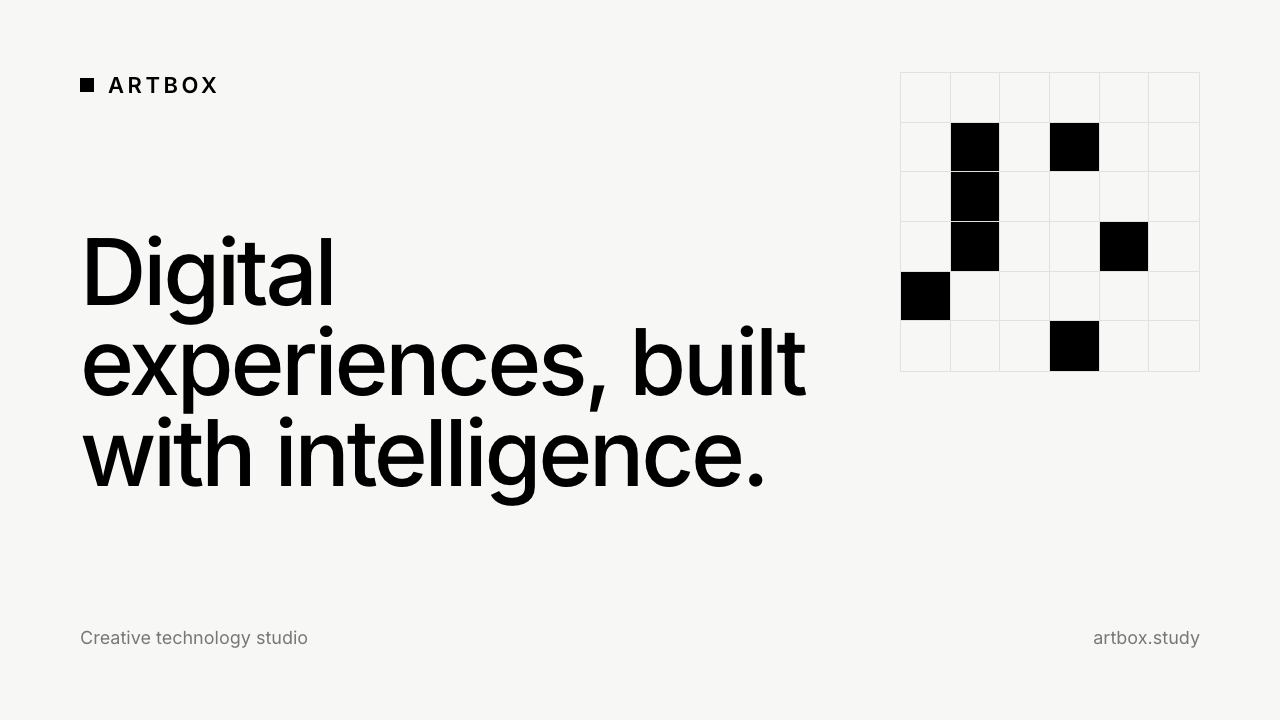
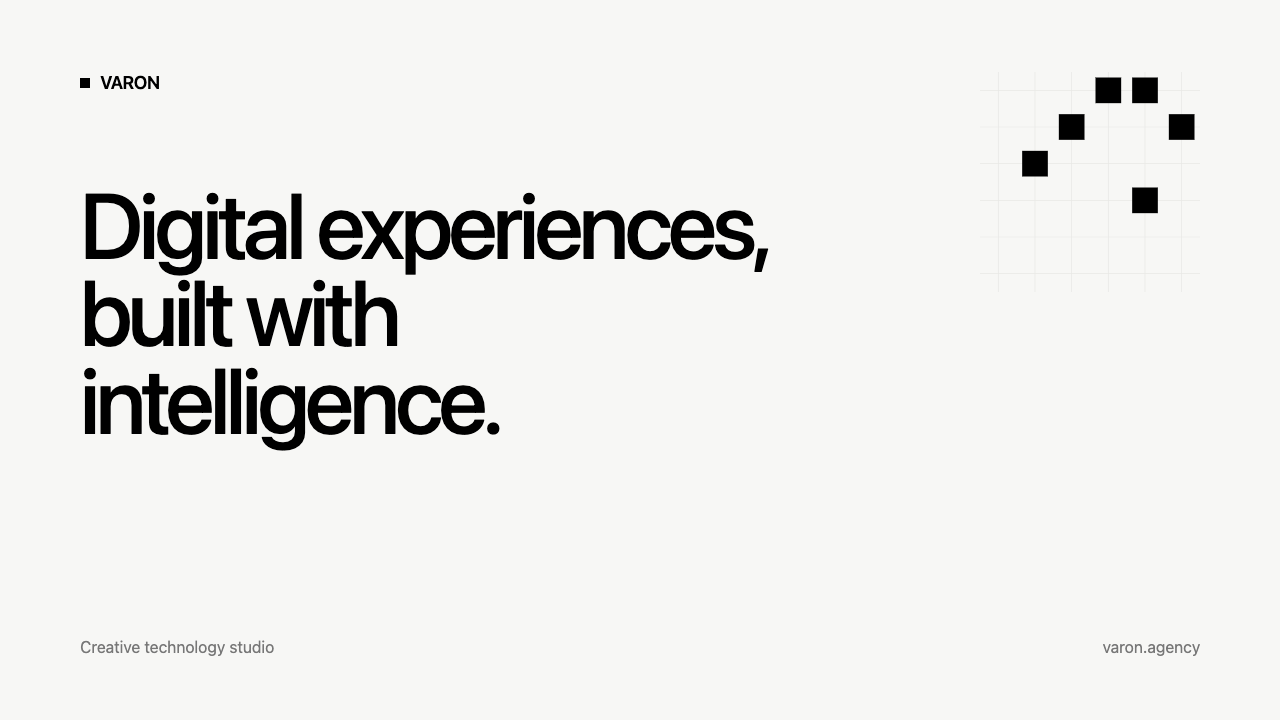
Rename the studio to VARON.agency and add Vercel Analytics
Visible brand strings, SEO metadata, and the OG card now use VARON /
varon.agency. Mount Vercel Web Analytics and Speed Insights in the React
app so production traffic is tracked after deploy.

diff --git a/src/content/copy.ts b/src/content/copy.ts
@@ -8,9 +8,9 @@ export const copy = {
       ar: "العربية",
     },
     meta: {
-      title: "ARTBOX — Digital experiences, built with intelligence",
+      title: "VARON — Digital experiences, built with intelligence",
       description:
-        "ARTBOX is a creative technology studio. We design and build websites, digital products, and AI-powered systems — strategy, design, and engineering in one studio.",
+        "VARON is a creative technology studio. We design and build websites, digital products, and AI-powered systems — strategy, design, and engineering in one studio.",
     },
     nav: {
       work: "Work",
@@ -24,17 +24,17 @@ export const copy = {
     hero: {
       kicker: "Creative technology studio",
       title: "Digital experiences,\nbuilt with intelligence.",
-      lead: "ARTBOX designs and builds websites, digital products, and AI-powered systems for companies that take their work seriously. Strategy, design, and engineering — in one studio.",
+      lead: "VARON designs and builds websites, digital products, and AI-powered systems for companies that take their work seriously. Strategy, design, and engineering — in one studio.",
       primary: "Book a 30-minute discovery call",
       secondary: "Explore our work",
       roles: ["Strategy", "Design", "Engineering", "Intelligence"],
       rolesLabel: "Disciplines",
-      artifactLabel: "Abstract grid of squares — the ARTBOX mark in motion",
+      artifactLabel: "Abstract grid of squares — the VARON mark in motion",
     },
     intro: {
       label: "Studio",
       statement:
-        "ARTBOX combines design, engineering, and intelligent systems to create digital products that feel as good as they perform.",
+        "VARON combines design, engineering, and intelligent systems to create digital products that feel as good as they perform.",
       supporting:
         "We work directly with founders and teams. No account layer, no hand-offs — the people you meet are the people who make the work.",
     },
@@ -169,8 +169,8 @@ export const copy = {
     about: {
       index: "05",
       label: "About",
-      title: "ARTBOX exists to make digital work that holds its value.",
-      p1: "ARTBOX is a studio for digital work made with the care of a craft. We combine strategy, design, engineering, and human judgment. Intelligent tools sit inside the process — research, exploration, production — so the work is sharper, not louder.",
+      title: "VARON exists to make digital work that holds its value.",
+      p1: "VARON is a studio for digital work made with the care of a craft. We combine strategy, design, engineering, and human judgment. Intelligent tools sit inside the process — research, exploration, production — so the work is sharper, not louder.",
       p2: "The collaboration is direct. You speak with the people making the product. Decisions stay close. The work is made to represent a business — local or international — and to help people hire you or buy from you.",
       p3: "We are a lean studio. There is no account layer. If the work is ours to make, we make it. Then we stay with it — testing, refining, keeping the product exact as the business grows.",
       principlesLabel: "Principles",
@@ -220,7 +220,7 @@ export const copy = {
       title: "This page\ndoesn’t exist.",
       lead: "The page you’re looking for may have moved, or the link may be incorrect.",
       home: "Back to home",
-      documentTitle: "Page not found — ARTBOX",
+      documentTitle: "Page not found — VARON",
     },
   },
   ar: {
@@ -232,9 +232,9 @@ export const copy = {
       ar: "العربية",
     },
     meta: {
-      title: "ARTBOX — تجارب رقمية، تُبنى بذكاء",
+      title: "VARON — تجارب رقمية، تُبنى بذكاء",
       description:
-        "ARTBOX استوديو تكنولوجيا إبداعية. نصمّم ونبني المواقع الإلكترونية والمنتجات الرقمية والأنظمة المدعومة بالذكاء الاصطناعي — استراتيجية وتصميم وهندسة في استوديو واحد.",
+        "VARON استوديو تكنولوجيا إبداعية. نصمّم ونبني المواقع الإلكترونية والمنتجات الرقمية والأنظمة المدعومة بالذكاء الاصطناعي — استراتيجية وتصميم وهندسة في استوديو واحد.",
     },
     nav: {
       work: "الأعمال",
@@ -248,17 +248,17 @@ export const copy = {
     hero: {
       kicker: "استوديو تكنولوجيا إبداعية",
       title: "تجارب رقمية،\nتُبنى بذكاء.",
-      lead: "تصمّم ARTBOX وتبني المواقع الإلكترونية والمنتجات الرقمية والأنظمة المدعومة بالذكاء الاصطناعي للشركات التي تأخذ عملها بجدية. استراتيجية وتصميم وهندسة — في استوديو واحد.",
+      lead: "تصمّم VARON وتبني المواقع الإلكترونية والمنتجات الرقمية والأنظمة المدعومة بالذكاء الاصطناعي للشركات التي تأخذ عملها بجدية. استراتيجية وتصميم وهندسة — في استوديو واحد.",
       primary: "احجز مكالمة تعارف مدتها ٣٠ دقيقة",
       secondary: "استكشف أعمالنا",
       roles: ["استراتيجية", "تصميم", "هندسة", "ذكاء"],
       rolesLabel: "التخصصات",
-      artifactLabel: "شبكة مجرّدة من المربعات — علامة ARTBOX في حركة",
+      artifactLabel: "شبكة مجرّدة من المربعات — علامة VARON في حركة",
     },
     intro: {
       label: "الاستوديو",
       statement:
-        "تجمع ARTBOX بين التصميم والهندسة والأنظمة الذكية لتصنع منتجات رقمية يوازي إحساسُها أداءَها.",
+        "تجمع VARON بين التصميم والهندسة والأنظمة الذكية لتصنع منتجات رقمية يوازي إحساسُها أداءَها.",
       supporting:
         "نعمل مباشرة مع المؤسسين والفرق. لا طبقة حسابات ولا تسليمات وسيطة — من تلتقيهم هم من يصنعون العمل.",
     },
@@ -393,8 +393,8 @@ export const copy = {
     about: {
       index: "05",
       label: "عنّا",
-      title: "وُجدت ARTBOX لتصنع عملًا رقميًا يحتفظ بقيمته.",
-      p1: "ARTBOX استوديو للعمل الرقمي يُصنع بعناية الحرفة. نجمع الاستراتيجية والتصميم والهندسة والحكم البشري. وتعمل الأدوات الذكية داخل العملية — البحث والاستكشاف والإنتاج — فيكون العمل أحدّ، لا أعلى صوتًا.",
+      title: "وُجدت VARON لتصنع عملًا رقميًا يحتفظ بقيمته.",
+      p1: "VARON استوديو للعمل الرقمي يُصنع بعناية الحرفة. نجمع الاستراتيجية والتصميم والهندسة والحكم البشري. وتعمل الأدوات الذكية داخل العملية — البحث والاستكشاف والإنتاج — فيكون العمل أحدّ، لا أعلى صوتًا.",
       p2: "التعاون مباشر. تتحدث مع من يصنع المنتج. تبقى القرارات قريبة. يُصنع العمل ليمثّل نشاطًا — محليًا أو دوليًا — وليساعد الناس على اختيارك أو الشراء منك.",
       p3: "نحن استوديو رشيق. لا طبقة حسابات بينك وبين العمل. إن كان العمل لنا، ننجزه. ثم نبقى معه — نختبر ونصقل ونُبقيه دقيقًا مع نمو النشاط.",
       principlesLabel: "المبادئ",
@@ -444,7 +444,7 @@ export const copy = {
       title: "هذه الصفحة\nغير موجودة.",
       lead: "قد تكون الصفحة التي تبحث عنها قد انتقلت، أو أن الرابط غير صحيح.",
       home: "العودة إلى الصفحة الرئيسية",
-      documentTitle: "الصفحة غير موجودة — ARTBOX",
+      documentTitle: "الصفحة غير موجودة — VARON",
     },
   },
 } as const;

diff --git a/index.html b/index.html
@@ -6,35 +6,35 @@
     <link rel="apple-touch-icon" sizes="180x180" href="/apple-touch-icon.png" />
     <meta name="viewport" content="width=device-width, initial-scale=1.0" />
     <meta name="theme-color" content="#F7F7F5" />
-    <title>ARTBOX — Digital experiences, built with intelligence</title>
+    <title>VARON — Digital experiences, built with intelligence</title>
     <meta
       name="description"
-      content="ARTBOX is a creative technology studio. We design and build websites, digital products, and AI-powered systems — strategy, design, and engineering in one studio."
+      content="VARON is a creative technology studio. We design and build websites, digital products, and AI-powered systems — strategy, design, and engineering in one studio."
     />
-    <link rel="canonical" href="https://artbox.study/" />
+    <link rel="canonical" href="https://varon.agency/" />
     <meta property="og:type" content="website" />
-    <meta property="og:site_name" content="ARTBOX.STUDY" />
-    <meta property="og:url" content="https://artbox.study/" />
-    <meta property="og:title" content="ARTBOX — Digital experiences, built with intelligence" />
+    <meta property="og:site_name" content="VARON.agency" />
+    <meta property="og:url" content="https://varon.agency/" />
+    <meta property="og:title" content="VARON — Digital experiences, built with intelligence" />
     <meta
       property="og:description"
-      content="ARTBOX is a creative technology studio. We design and build websites, digital products, and AI-powered systems — strategy, design, and engineering in one studio."
+      content="VARON is a creative technology studio. We design and build websites, digital products, and AI-powered systems — strategy, design, and engineering in one studio."
     />
-    <meta property="og:image" content="https://artbox.study/og.png" />
+    <meta property="og:image" content="https://varon.agency/og.png" />
     <meta property="og:image:width" content="1280" />
     <meta property="og:image:height" content="720" />
     <meta property="og:locale" content="en_US" />
     <meta property="og:locale:alternate" content="ar" />
-    <link rel="alternate" hreflang="en" href="https://artbox.study/" />
-    <link rel="alternate" hreflang="ar" href="https://artbox.study/" />
-    <link rel="alternate" hreflang="x-default" href="https://artbox.study/" />
+    <link rel="alternate" hreflang="en" href="https://varon.agency/" />
+    <link rel="alternate" hreflang="ar" href="https://varon.agency/" />
+    <link rel="alternate" hreflang="x-default" href="https://varon.agency/" />
     <meta name="twitter:card" content="summary_large_image" />
-    <meta name="twitter:title" content="ARTBOX — Digital experiences, built with intelligence" />
+    <meta name="twitter:title" content="VARON — Digital experiences, built with intelligence" />
     <meta
       name="twitter:description"
-      content="ARTBOX is a creative technology studio. We design and build websites, digital products, and AI-powered systems — strategy, design, and engineering in one studio."
+      content="VARON is a creative technology studio. We design and build websites, digital products, and AI-powered systems — strategy, design, and engineering in one studio."
     />
-    <meta name="twitter:image" content="https://artbox.study/og.png" />
+    <meta name="twitter:image" content="https://varon.agency/og.png" />
     <link rel="preconnect" href="https://fonts.googleapis.com" />
     <link rel="preconnect" href="https://fonts.gstatic.com" crossorigin />
     <link
@@ -56,12 +56,12 @@
       {
         "@context": "https://schema.org",
         "@type": "ProfessionalService",
-        "name": "ARTBOX",
-        "alternateName": "ARTBOX.STUDY",
-        "url": "https://artbox.study",
-        "email": "hello@artbox.study",
-        "description": "ARTBOX is a creative technology studio. We design and build websites, digital products, and AI-powered systems — strategy, design, and engineering in one studio.",
-        "image": "https://artbox.study/og.png",
+        "name": "VARON",
+        "alternateName": "VARON.agency",
+        "url": "https://varon.agency",
+        "email": "hello@varon.agency",
+        "description": "VARON is a creative technology studio. We design and build websites, digital products, and AI-powered systems — strategy, design, and engineering in one studio.",
+        "image": "https://varon.agency/og.png",
         "areaServed": "Worldwide",
         "serviceType": ["Websites", "AI systems", "Product design", "Brand & digital identity"],
         "potentialAction": {

diff --git a/src/content/site.ts b/src/content/site.ts
@@ -1,12 +1,12 @@
 export const site = {
-  name: "ARTBOX",
-  fullName: "ARTBOX.STUDY",
-  domain: "artbox.study",
-  title: "ARTBOX — Digital experiences, built with intelligence",
+  name: "VARON",
+  fullName: "VARON.agency",
+  domain: "varon.agency",
+  title: "VARON — Digital experiences, built with intelligence",
   description:
-    "ARTBOX is a creative technology studio. We design and build websites, digital products, and AI-powered systems — strategy, design, and engineering in one studio.",
-  url: "https://artbox.study",
-  email: "hello@artbox.study",
+    "VARON is a creative technology studio. We design and build websites, digital products, and AI-powered systems — strategy, design, and engineering in one studio.",
+  url: "https://varon.agency",
+  email: "hello@varon.agency",
   ogImage: "/og.png",
   bookingUrl: "https://cal.com/jameel-gharabat-clbqfo/30min",
 } as const;

diff --git a/src/App.tsx b/src/App.tsx
@@ -1,4 +1,6 @@
-import { BrowserRouter, Outlet, Route, Routes } from "react-router-dom";
+import { Analytics } from "@vercel/analytics/react";
+import { SpeedInsights } from "@vercel/speed-insights/react";
+import { BrowserRouter, Outlet, Route, Routes, useLocation } from "react-router-dom";
 import { Footer } from "./components/Footer";
 import { Loader } from "./components/Loader";
 import { Navigation } from "./components/Navigation";
@@ -39,6 +41,17 @@ export default function App() {
           <Route path="*" element={<NotFoundPage />} />
         </Route>
       </Routes>
+      <VercelObservability />
     </BrowserRouter>
+  );
+}
+
+function VercelObservability() {
+  const { pathname } = useLocation();
+  return (
+    <>
+      <Analytics path={pathname} route={pathname} />
+      <SpeedInsights route={pathname} />
+    </>
   );
 }

diff --git a/src/components/Wordmark.tsx b/src/components/Wordmark.tsx
@@ -1,7 +1,7 @@
 import { site } from "../content/site";
 
 /**
- * ARTBOX wordmark. Latin, always LTR.
+ * VARON wordmark. Latin, always LTR.
  * A single square before the name references the "box" — restrained, 2D.
  */
 export function Wordmark({ className = "", mark = true }: { className?: string; mark?: boolean }) {

diff --git a/src/components/Logo.tsx b/src/components/Logo.tsx
@@ -1,5 +1,5 @@
 /**
- * ARTBOX logo mark: a rounded square outline.
+ * VARON logo mark: a rounded square outline.
  * Traced from the brand artwork (outer 566, stroke 58, radius 64 → normalised to 100).
  * Uses currentColor so it inverts with the header over dark sections.
  */
